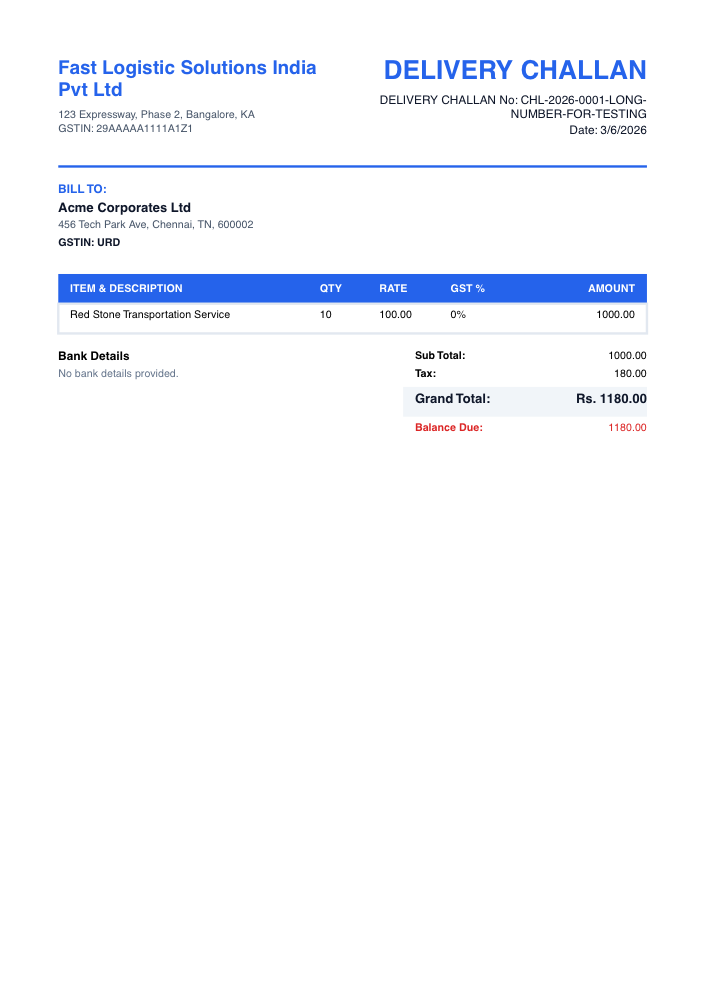
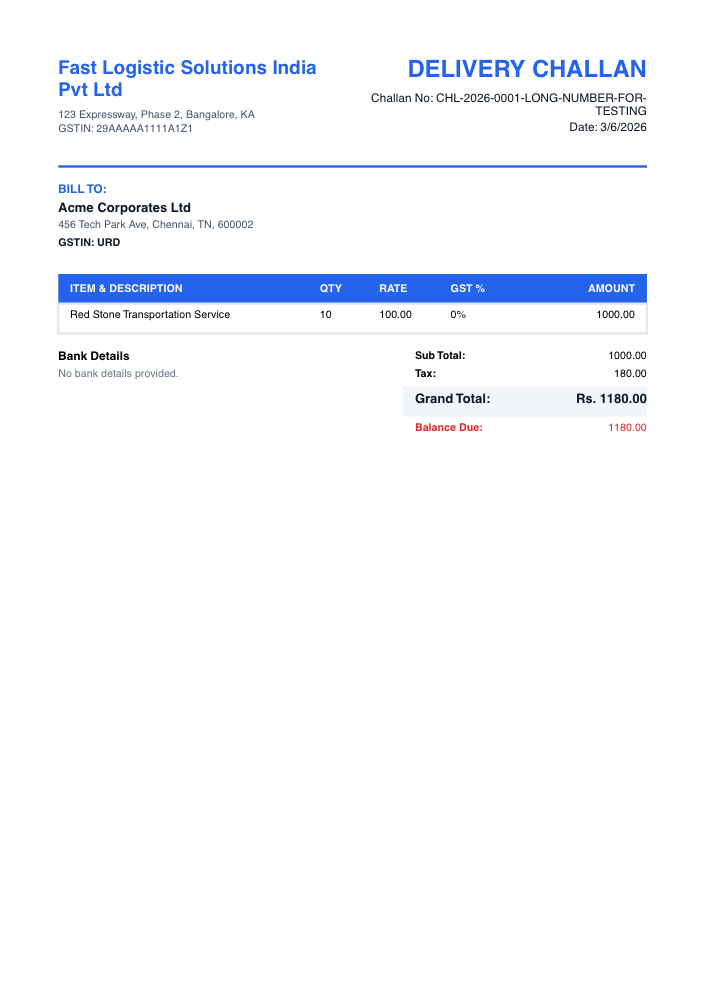
2_Text Overlap Pdf Issue, Image Fetching

Changed region(s): [[0.529, 0.062, 0.9335, 0.155]]

diff --git a/backend/utils/pdfGenerator.js b/backend/utils/pdfGenerator.js
@@ -26,6 +26,18 @@ const formatCustomerAddress = (addr, flatFallback) => {
     return parts.join(', ');
 };
 
+const getDocNumberLabel = (docType) => {
+    switch (docType) {
+        case 'invoice': return 'Invoice No';
+        case 'challan': return 'Challan No';
+        case 'quotation': return 'Reference No';
+        case 'sales-order': return 'Order No';
+        case 'purchase-bill': return 'Bill No';
+        case 'credit-note': return 'Credit Note No';
+        default: return 'No';
+    }
+};
+
 export const generateStandardPDF = async (docTitle, docType, invoice, customer, items, settings, template = 'modern', color = '#2563eb', customFilePath = null) => {
     return new Promise(async (resolve, reject) => {
         try {
@@ -70,8 +82,8 @@ export const generateStandardPDF = async (docTitle, docType, invoice, customer, 
                 }
                 const leftColBottom = doc.y;
 
-                doc.fillColor('white').font(fontBold).fontSize(22).text(docTitle, 300, 40, { align: 'right', width: 245 });
-                doc.fontSize(10).font(fontRegular).text(`No: ${invoice.invoiceNumber}`, 300, doc.y + 4, { align: 'right', width: 245 });
+                doc.fillColor('white').font(fontBold).fontSize(20).text(docTitle, 300, 40, { align: 'right', width: 245 });
+                doc.fontSize(10).font(fontRegular).text(`${getDocNumberLabel(docType)}: ${invoice.invoiceNumber}`, 300, doc.y + 4, { align: 'right', width: 245 });
                 doc.text(`Date: ${new Date(invoice.date).toLocaleDateString('en-IN')}`, 300, doc.y + 2, { align: 'right', width: 245 });
                 currentY = Math.max(140, leftColBottom + 15, doc.y + 15);
             } else if (isClassic) {
@@ -106,7 +118,7 @@ export const generateStandardPDF = async (docTitle, docType, invoice, customer, 
 
                 // Invoice metadata row
                 doc.fillColor('black').font(fontBold).fontSize(10);
-                doc.text(`${docTitle}: ${invoice.invoiceNumber}`, 50, currentY);
+                doc.text(`${getDocNumberLabel(docType)}: ${invoice.invoiceNumber}`, 50, currentY);
                 doc.text(`Date: ${new Date(invoice.date).toLocaleDateString('en-IN')}`, 350, currentY, { align: 'right', width: 195 });
                 if (invoice.dueDate) {
                     currentY += 15;
@@ -126,8 +138,8 @@ export const generateStandardPDF = async (docTitle, docType, invoice, customer, 
                 }
                 const leftColBottom = doc.y;
 
-                doc.fillColor('#0f172a').font(fontBold).fontSize(20).text(docTitle, 300, 50, { align: 'right', width: 245 });
-                doc.font(fontRegular).fontSize(9).fillColor('#475569').text(`No: ${invoice.invoiceNumber}`, 300, doc.y + 4, { align: 'right', width: 245 });
+                doc.fillColor('#0f172a').font(fontBold).fontSize(18).text(docTitle, 300, 50, { align: 'right', width: 245 });
+                doc.font(fontRegular).fontSize(9).fillColor('#475569').text(`${getDocNumberLabel(docType)}: ${invoice.invoiceNumber}`, 300, doc.y + 4, { align: 'right', width: 245 });
                 doc.text(`Date: ${new Date(invoice.date).toLocaleDateString('en-IN')}`, 300, doc.y + 2, { align: 'right', width: 245 });
                 
                 currentY = Math.max(leftColBottom + 15, doc.y + 15, 120);
@@ -157,9 +169,9 @@ export const generateStandardPDF = async (docTitle, docType, invoice, customer, 
                 const leftColBottom = doc.y;
 
                 // Right side header info
-                doc.font(fontBold).fontSize(22).fillColor(accentColor).text(docTitle, 300, 50, { align: 'right', width: 245 });
+                doc.font(fontBold).fontSize(20).fillColor(accentColor).text(docTitle, 300, 50, { align: 'right', width: 245 });
                 doc.fillColor('#0f172a').font(fontRegular).fontSize(10);
-                doc.text(`${docTitle} No: ${invoice.invoiceNumber}`, 300, doc.y + 4, { align: 'right', width: 245 });
+                doc.text(`${getDocNumberLabel(docType)}: ${invoice.invoiceNumber}`, 300, doc.y + 4, { align: 'right', width: 245 });
                 doc.text(`Date: ${new Date(invoice.date).toLocaleDateString('en-IN')}`, 300, doc.y + 2, { align: 'right', width: 245 });
                 if (invoice.dueDate) {
                     doc.text(`Due Date: ${new Date(invoice.dueDate).toLocaleDateString('en-IN')}`, 300, doc.y + 2, { align: 'right', width: 245 });
